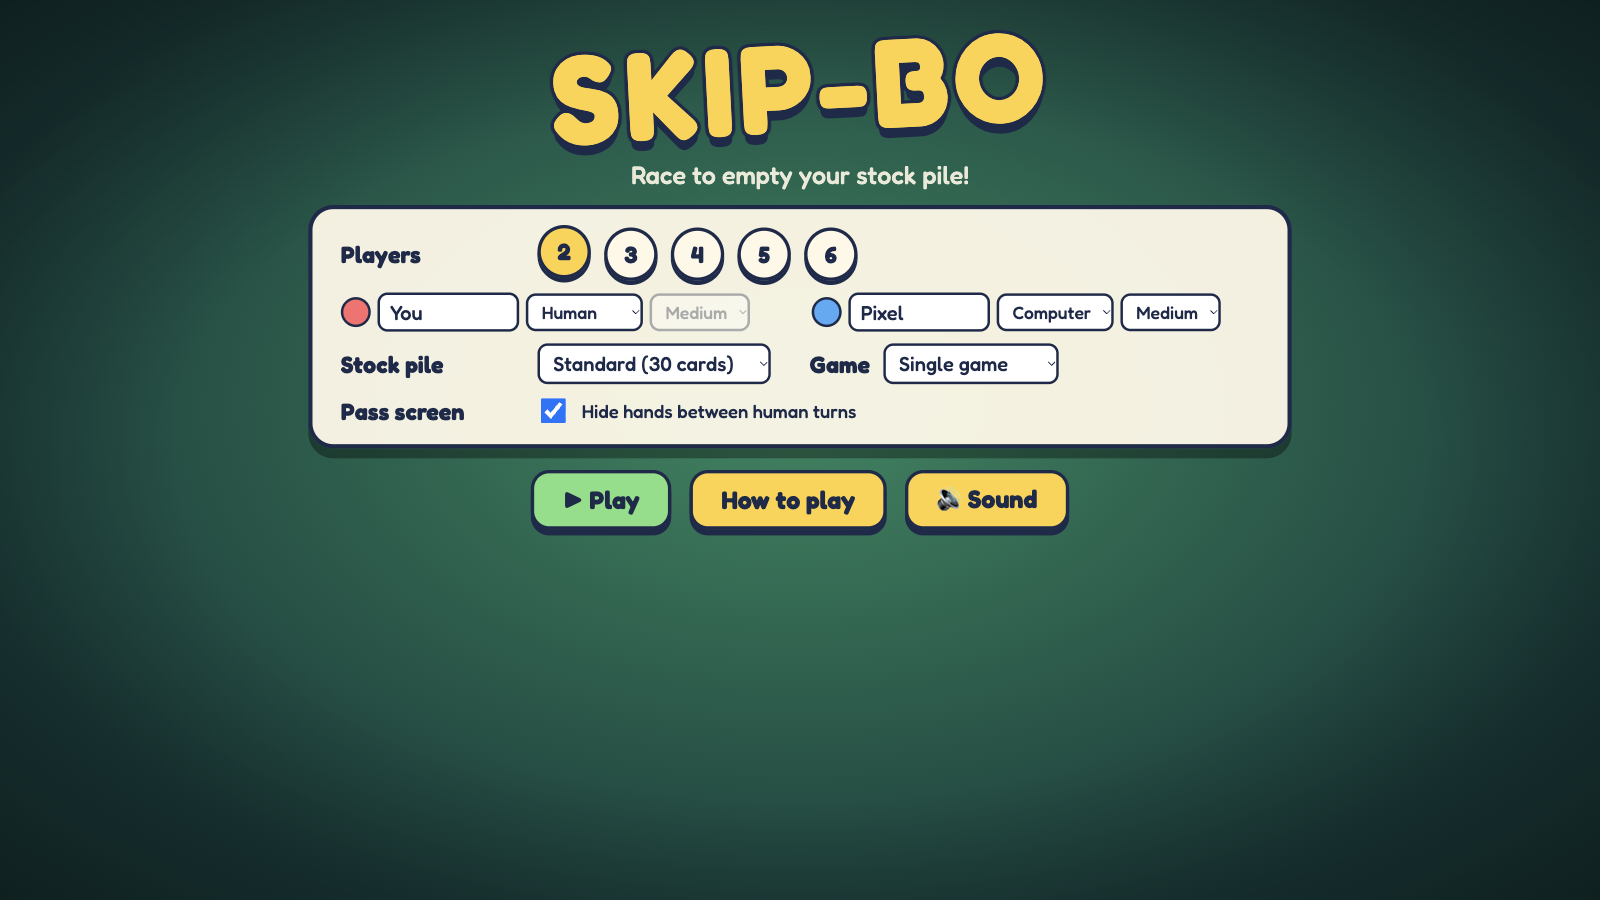
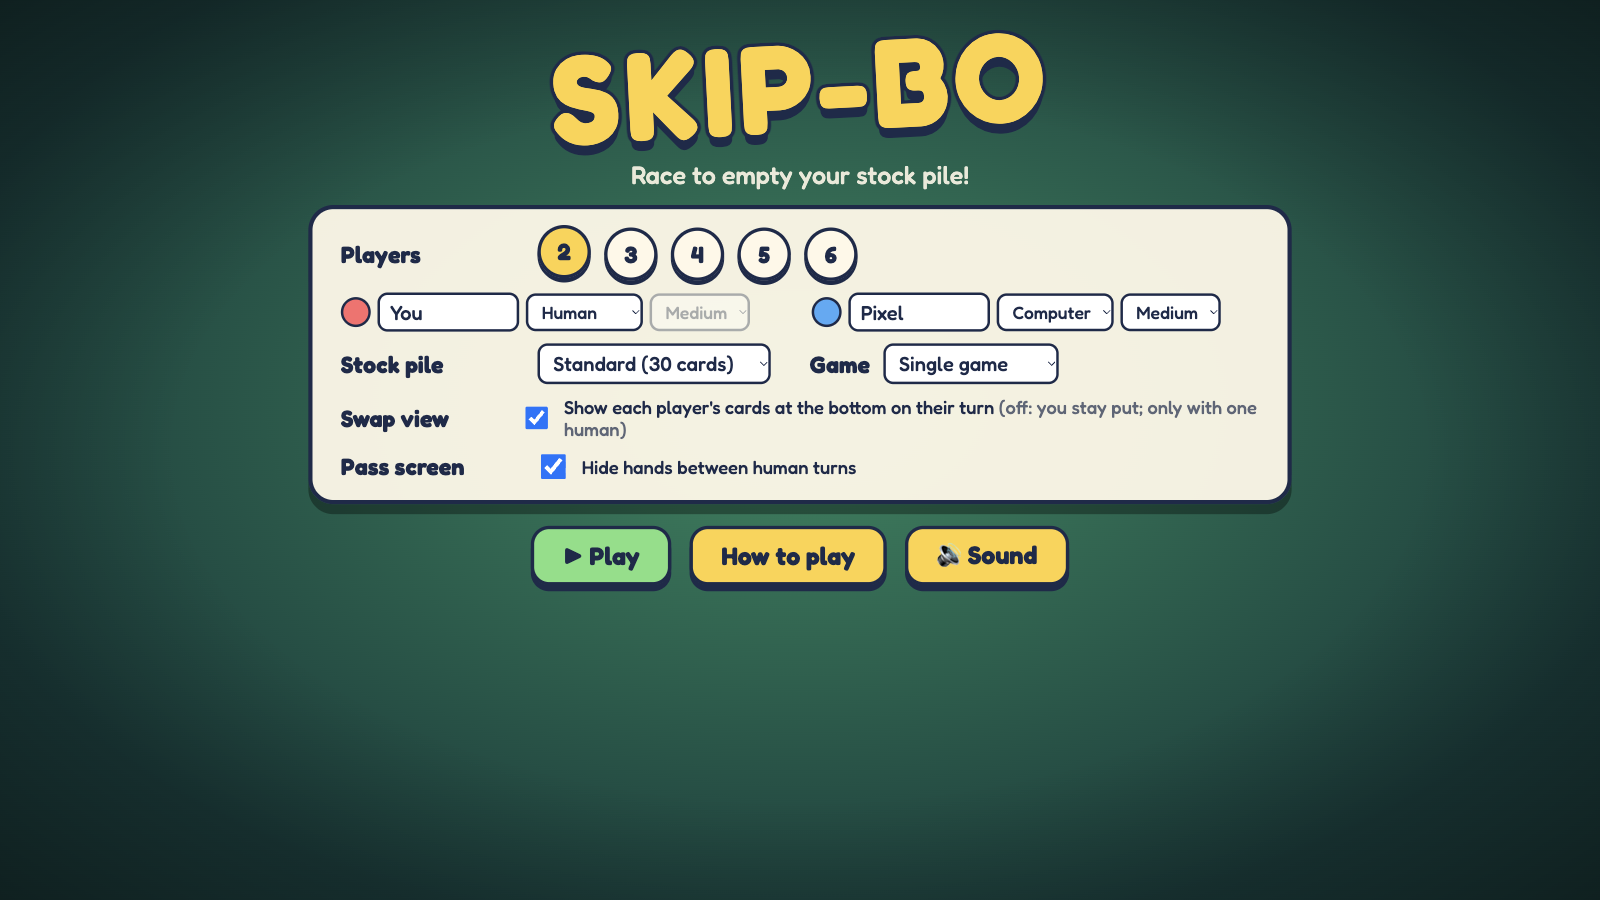
Add 'Swap view' option: keep the lone human at the bottom and let opponents play from their seats; reset double-click timer on every action

Changed region(s): [[0.1875, 0.4356, 0.8125, 0.6844]]

diff --git a/src/renderer/ui/game.ts b/src/renderer/ui/game.ts
@@ -55,6 +55,12 @@ export class GameController {
     root.appendChild(this.el)
   }
 
+  /** Index of the player whose board is drawn in the bottom tray. */
+  private get viewer(): number {
+    if (this.opts.swapView === false && this.humans === 1) return this.seats.findIndex((x) => x.kind === 'human')
+    return this.state.current
+  }
+
   get seats(): Seat[] {
     return this.opts.seats
   }
@@ -145,6 +151,7 @@ export class GameController {
     const card: Card | undefined =
       a.type === 'play' ? cardAt(before, a) : a.type === 'discard' ? player.hand[a.index] : undefined
     this.busy = true
+    this.lastTap = { key: '', at: 0 }
     if (a.type !== 'endTurn' && card !== undefined) await this.fly(a, card)
     if (a.type === 'play' && this.seats[prev]!.kind === 'human') this.history.push(before)
     const next = applyAction(before, a)
@@ -438,10 +445,12 @@ export class GameController {
 
   render(): void {
     const s = this.state
-    const cur = s.current
+    const turn = s.current
+    const cur = this.viewer
     const me = s.players[cur]!
     const seat = this.seats[cur] as Seat
-    const humanTurn = seat.kind === 'human'
+    const humanTurn = this.seats[turn]!.kind === 'human'
+    const ownHand = seat.kind === 'human'
     const sel = this.selected
     const n = s.players.length
     const opps = Array.from({ length: n - 1 }, (_, k) => (cur + 1 + k) % n)
@@ -458,16 +467,16 @@ export class GameController {
         const p = s.players[pi]!
         const [x, y] = (POS[opps.length] as [number, number][])[k] as [number, number]
         const st = this.seats[pi] as Seat
-        const discs = p.discards.map((d, di) => this.pile(d, 62, { cascade: 12, maxShow: 4, data: `data-peek="${pi}:${di}"` })).join('')
-        const stock = this.pile(p.stock, 62, { extra: 'stockp' }).replace('</div></div>', `</div><span class="badge stock">${p.stock.length}</span></div>`)
-        return `<div class="seat" ${fluid ? '' : `style="left:${x}px;top:${y}px"`}><div class="name"><span style="width:18px;height:18px;border-radius:50%;background:${SEAT_COLORS[pi]};border:2px solid #1c2a4a;display:inline-block"></span>${esc(st.name)}${st.kind === 'cpu' ? ' 🤖' : ''}</div><span class="meta">✋ ${p.hand.length}</span><div class="row-cards">${stock}<div style="width:6px"></div>${discs}</div></div>`
+        const discs = p.discards.map((d, di) => this.pile(d, 62, { cascade: 12, maxShow: 4, data: `data-peek="${pi}:${di}" data-seatdisc="${pi}:${di}"` })).join('')
+        const stock = this.pile(p.stock, 62, { extra: 'stockp', data: `data-seatstock="${pi}"` }).replace('</div></div>', `</div><span class="badge stock">${p.stock.length}</span></div>`)
+        return `<div class="seat ${pi === turn ? 'turn' : ''}" data-seat="${pi}" ${fluid ? '' : `style="left:${x}px;top:${y}px"`}><div class="name"><span style="width:18px;height:18px;border-radius:50%;background:${SEAT_COLORS[pi]};border:2px solid #1c2a4a;display:inline-block"></span>${esc(st.name)}${st.kind === 'cpu' ? ' 🤖' : ''}</div><span class="meta">✋ ${p.hand.length}</span><div class="row-cards">${stock}<div style="width:6px"></div>${discs}</div></div>`
       })
       .join('')
 
     const handW = Math.min(150, Math.floor((1000 - (me.hand.length - 1) * 14) / Math.max(1, me.hand.length)))
     const hand = me.hand
       .map((c, i) => {
-        const face = humanTurn ? cardSvg(c) : cardBackSvg()
+        const face = ownHand ? cardSvg(c) : cardBackSvg()
         return `<div class="pile ${humanTurn ? 'selectable' : ''} ${sel && sel.src === 'hand' && sel.index === i ? 'sel' : ''}" data-hand="${i}" style="width:${handW}px">${face}</div>`
       })
       .join('')
@@ -490,7 +499,7 @@ export class GameController {
     }).replace(/<\/div><\/div>$/, `</div><span class="badge stock">${me.stock.length}</span></div>`)
     const builds = s.build.map((_, i) => this.buildPile(i)).join('')
     const drawCount = s.draw.length
-    const banner = s.winner !== null ? '' : humanTurn ? (mustEndTurn(s) ? 'No cards in hand — end your turn' : sel ? 'Now pick a building pile (or a discard pile for a hand card)' : 'Pick a card to play') : `${esc(seat.name)} is thinking…`
+    const banner = s.winner !== null ? '' : humanTurn ? (mustEndTurn(s) ? 'No cards in hand — end your turn' : sel ? 'Now pick a building pile (or a discard pile for a hand card)' : 'Pick a card to play') : `${esc((this.seats[turn] as Seat).name)} is thinking…`
     const board = this.opts.target
       ? this.seats.map((st, i) => `${esc(st.name)}: ${this.scores[i]}`).join('<br>')
       : this.wins.some((w) => w > 0)
@@ -505,7 +514,7 @@ export class GameController {
         <div class="build-wrap">${builds}</div></div>
       <div class="banner" id="banner">${banner}</div>
       <div id="tray">
-        <div class="tray-left turn"><div class="tray-name"><span class="name"><span style="width:20px;height:20px;border-radius:50%;background:${SEAT_COLORS[cur]};border:2px solid #1c2a4a;display:inline-block;margin-right:8px;align-self:center"></span>${esc(seat.name)}${seat.kind === 'cpu' ? ' 🤖' : ''}</span></div>
+        <div class="tray-left ${cur === turn ? 'turn' : ''}"><div class="tray-name"><span class="name"><span style="width:20px;height:20px;border-radius:50%;background:${SEAT_COLORS[cur]};border:2px solid #1c2a4a;display:inline-block;margin-right:8px;align-self:center"></span>${esc(seat.name)}${seat.kind === 'cpu' ? ' 🤖' : ''}</span></div>
           <div class="row-cards">${stockPile}<div style="width:10px"></div>${discards}</div></div>
         <div class="hand tray-hand">${hand}</div>
         <div class="side-actions">
@@ -528,7 +537,18 @@ export class GameController {
     if (!this.env.speed) return
     let from: Element | null = null
     let to: Element | null = null
-    if (a.type === 'play') {
+    const who = this.state.current
+    if (who !== this.viewer) {
+      // an opponent plays straight from its seat at the top of the board
+      const seatEl = this.el.querySelector(`.seat[data-seat="${who}"]`)
+      if (a.type === 'play') {
+        from = a.src === 'stock' ? this.el.querySelector(`[data-seatstock="${who}"]`) : a.src === 'discard' ? this.el.querySelector(`[data-seatdisc="${who}:${a.pile}"]`) : (seatEl?.querySelector('.meta') ?? null)
+        to = this.el.querySelector(`[data-build="${a.to}"]`)
+      } else if (a.type === 'discard') {
+        from = seatEl?.querySelector('.meta') ?? null
+        to = this.el.querySelector(`[data-seatdisc="${who}:${a.pile}"]`)
+      }
+    } else if (a.type === 'play') {
       from = a.src === 'hand' ? this.el.querySelector(`.tray-hand [data-hand="${a.index}"]`) : a.src === 'stock' ? this.el.querySelector('.tray-left [data-stock]') : this.el.querySelector(`.tray-left [data-discard="${a.pile}"]`)
       to = this.el.querySelector(`[data-build="${a.to}"]`)
     } else if (a.type === 'discard') {

diff --git a/src/renderer/ui/menu.ts b/src/renderer/ui/menu.ts
@@ -61,6 +61,7 @@ export class Menu {
         <div class="seats">${seats}</div>
         <div class="row"><label>Stock pile</label><select id="stock"><option value="0" ${o.stockSize === 0 ? 'selected' : ''}>Standard (${auto} cards)</option>${sizes.map((n) => `<option value="${n}" ${o.stockSize === n ? 'selected' : ''}>${n} cards${n === 10 ? ' (quick game)' : ''}</option>`).join('')}</select>
           <label style="width:auto;margin-left:30px">Game</label><select id="target"><option value="0" ${o.target === 0 ? 'selected' : ''}>Single game</option>${[100, 250, 500].map((n) => `<option value="${n}" ${o.target === n ? 'selected' : ''}>First to ${n} pts</option>`).join('')}</select></div>
+        <div class="row"><label>Swap view</label><input type="checkbox" id="swapopt" ${o.swapView !== false ? 'checked' : ''} style="width:30px;height:30px"> <span style="font-size:22px">Show each player's cards at the bottom on their turn <span style="opacity:.7">(off: you stay put; only with one human)</span></span></div>
         <div class="row"><label>Pass screen</label><input type="checkbox" id="passopt" ${o.passScreen ? 'checked' : ''} style="width:30px;height:30px"> <span style="font-size:22px">Hide hands between human turns</span></div>
       </div>
       <div class="menu-buttons" style="margin-top:26px"><button class="btn green" id="play">▶ Play</button><button class="btn" id="rules">How to play</button><button class="btn" id="snd">🔊 Sound</button></div>`
@@ -94,6 +95,7 @@ export class Menu {
     })
     q<HTMLSelectElement>('#stock').onchange = (e) => (this.opts.stockSize = Number((e.target as HTMLSelectElement).value))
     q<HTMLSelectElement>('#target').onchange = (e) => (this.opts.target = Number((e.target as HTMLSelectElement).value))
+    q<HTMLInputElement>('#swapopt').onchange = (e) => (this.opts.swapView = (e.target as HTMLInputElement).checked)
     q<HTMLInputElement>('#passopt').onchange = (e) => (this.opts.passScreen = (e.target as HTMLInputElement).checked)
     q<HTMLButtonElement>('#play').onclick = () => {
       this.env.sound.unlock()

diff --git a/tests/e2e/game.spec.ts b/tests/e2e/game.spec.ts
@@ -302,3 +302,22 @@ test('input is ignored (not applied to a stale screen) while a turn change is in
   })
   expect(ok).toBe(true)
 })
+
+test('with swap view off, the lone human stays at the bottom while the computer plays from its seat', async () => {
+  ctx = await launch({ SKIPBO_QUERY: 'seed=3&fast=1' })
+  const { page } = ctx
+  await page.evaluate(() => window.__skipbo!.startGame({ seats: [{ name: 'Steve', kind: 'human', level: 'medium' }, { name: 'Bot', kind: 'cpu', level: 'hard' }], stockSize: 10, target: 0, passScreen: false, swapView: false } as never))
+  // play until it is the computer's turn, checking the tray never swaps
+  for (let i = 0; i < 40; i++) {
+    const s = await getState(page)
+    if (s.winner !== null) break
+    await expect(page.locator('.tray-name .name')).toContainText('Steve')
+    if (s.current === 1) {
+      await expect(page.locator('.seat[data-seat="1"]')).toHaveClass(/turn/)
+      return
+    }
+    await page.click('.tray-hand [data-hand="0"]')
+    await page.click('.tray-left [data-discard="0"]')
+    await page.waitForTimeout(100)
+  }
+})

diff --git a/src/renderer/ui/env.ts b/src/renderer/ui/env.ts
@@ -15,6 +15,8 @@ export interface SetupOptions {
   target: number
   /** Show a "pass the device" screen between human turns. */
   passScreen: boolean
+  /** Swap the active player's cards into the bottom tray each turn. When false (one human only), the human stays at the bottom. */
+  swapView?: boolean
 }
 
 export interface Env {
@@ -39,6 +41,7 @@ export function defaultSetup(): SetupOptions {
     stockSize: 0,
     target: 0,
     passScreen: true,
+    swapView: true,
   }
 }
 
